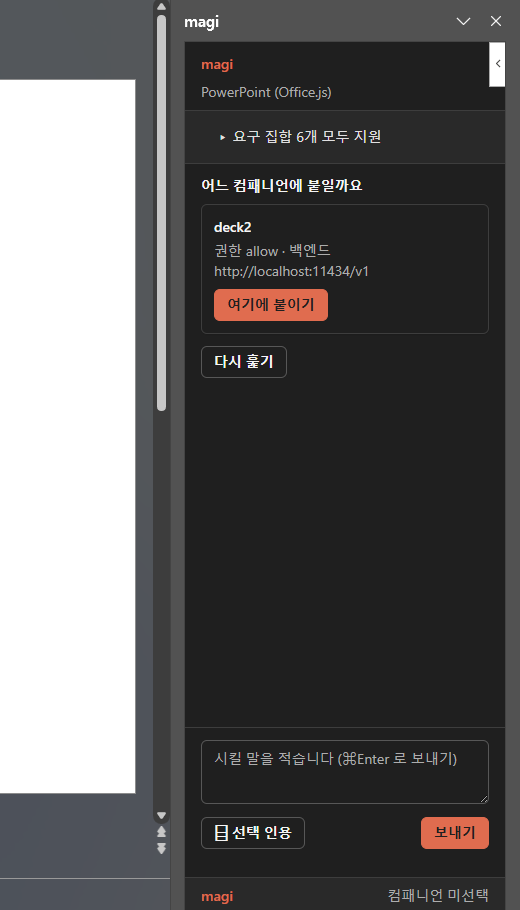
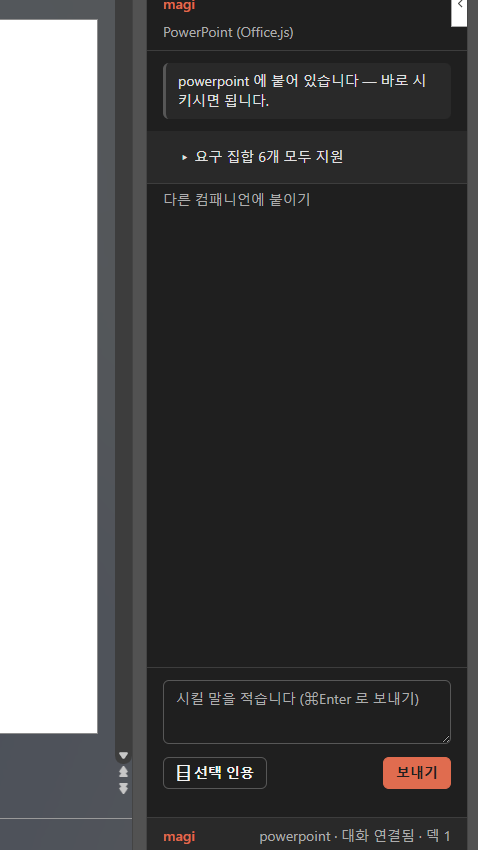
ppt: 문서 최신화 — 새 첫 화면 스크린샷과 §6.12, 그리고 6층 이야기
## 스크린샷

01-attach.png 를 다시 찍었다. 그 그림이 가리키던 화면이 이제 없다 — 고르는
화면을 거치지 않으므로, 작업창을 열면 이미 붙어 있다. 새 그림은 「powerpoint 에
붙어 있습니다 — 바로 시키시면 됩니다」, 접힌 요구 집합, 「다른 컴패니언에
붙이기」(고급), 입력줄, 브랜드 줄을 한 장에 담는다. §3 의 도식도 같이 고쳤다.

찍다가 하나 나왔다: **헬퍼가 미리 붙여 둔 첫 화면은 빈 판이었다.** 고르고 붙은
길은 「붙었습니다」를 적는데 물려받은 길만 아무 말도 안 했다. 아래 브랜드 줄에
증거가 있긴 하지만 처음 여는 사람이 거기부터 보지는 않는다. 한 줄 적게 했다.

## 매뉴얼

- §6.12 「이 장」이 어느 장인지 — 되묻던 화면과 왜 그랬는지, 그리고 두 도구가
  이제 무엇을 싣는지. 요점 한 줄: 모델에게는 산문보다 데이터가 세다.
- §6.11 에 포개짐 경고와 축 고르는 법.
- §6.1 표의 list_slides·read_slide 설명에 current 추가.

## TESTING

§5.1 에 이번 실측 넷을 더했다(스물여섯). 그리고 그 넷의 결이 앞의 것들과 다르다는
것을 적었다 — **그날 스윕은 41/41 이 통과했다.** 도구를 하나씩 불러서는 아무것도
안 걸렸고, 넷 다 사람 말을 그대로 보내고 무슨 일이 나는지 본 다음에야 나왔으며,
셋은 에이전트의 로그를 읽어야 원인이 보였다.

그 차이를 6층이라고 적었다: 층 5 는 「호스트가 그렇게 답하는가」를 재고, 그 위에
「모델이 그 답으로 옳은 일을 하는가」가 있다. 도구는 전부 참을 말하는데 모델이
엉뚱한 도구를 고르고, 엉뚱한 장을 만지고, 되물을 수 없는 것을 되묻는 자리다 —
그리고 그것이 사람이 겪는 제품이다.

Changed region(s): [[0.0, 0.0, 0.9958, 1.0], [0.7908, 0.0918, 0.8494, 0.1224]]

diff --git a/clients/powerpoint/addin/src/main.js b/clients/powerpoint/addin/src/main.js
@@ -191,6 +191,10 @@ async function boot() {
           pick.hide();
           offerRepick(true);
           view.setBound(true);
+          // **물려받았을 때도 한 줄 적는다.** 앞 판본은 여기서 아무 말도 안 했고, 헬퍼가 미리
+          // 붙여 둔 첫 화면은 **빈 판**이었다 — 아래 브랜드 줄에 증거가 있긴 하지만, 처음 여는
+          // 사람이 거기부터 보지는 않는다.
+          view.where(`${bound} 에 붙어 있습니다 — 바로 시키시면 됩니다.`);
           await refreshBrand();
         }
       } catch (e) {

diff --git a/clients/powerpoint/docs/TESTING.ko.md b/clients/powerpoint/docs/TESTING.ko.md
@@ -6,7 +6,7 @@
 > 것은 `go test` 한 줄이면 돌고, 하나는 진짜 데몬이 있어야 돌고, 두 층은 **PowerPoint 와 사람의
 > 손**이 있어야 돈다. 그 조건을 모르면 「초록이니까 됐다」가 「그 층은 애초에 안 돌았다」와 같아
 > 보인다 — 이 레인은 그 착각을 오래 안고 있었다. 헬퍼가 전부 초록인 채로 **PowerPoint 에 한 번도
-> 안 붙어 본 날들**이 있었고, 붙인 첫날 5층에서만 결함 열둘이 나왔고, 에이전트가 장을 만들 수 있게 된 이튿날 아홉이 더 나왔다(§5.1).
+> 안 붙어 본 날들**이 있었고, 붙인 첫날 5층에서만 결함 열둘이 나왔고, 이튿날 열넷이 더 나왔다(§5.1).
 
 **마지막 실측: 2026-09-02 (도구 27개)**
 
@@ -163,12 +163,12 @@
 **이 층은 자동화가 없다.** Office 애드인을 창 없이 세우는 길이 이 저장소에는 없고, 사람이
 리본을 눌러 확인한다. 그래서 **점검표로 관리한다.**
 
-### 5.1 실물에서 나온 것들 — 2026-09-01(열둘)과 2026-09-02(아홉)
+### 5.1 실물에서 나온 것들 — 2026-09-01(열둘)과 2026-09-02(열넷)
 
 2026-09-01 이 이 애드인이 **PowerPoint 에 처음 붙은 날**이다. 헬퍼 61개와 JS 500여 개가 전부
 초록인 상태에서 붙였고, 그날 열둘이 나왔다. 이튿날 에이전트가 **장을 만들 수 있게 되자** 둘이
 더 나왔다(표 아래 여섯) — 새 기능이 새 슬라이드를 만들자마자 그 슬라이드를 읽는 길이 막혀
-있던 것이 드러났고, 도구를 전수로 불러 보자 둘이 더 나왔다. 아래 스물둘은 전부 **자동 시험이 하나도 못 잡던 것**이고, 지금은 전부 물려 있다.
+있던 것이 드러났고, 도구를 전수로 불러 보자 둘이 더 나왔다. 아래 스물여섯은 전부 **자동 시험이 하나도 못 잡던 것**이고, 지금은 전부 물려 있다.
 
 | 실물에서 본 것 | 무엇이었나 | 지금 무는 자리 |
 |---|---|---|
@@ -195,10 +195,24 @@
 | 「간격 똑같이」가 도형을 **거꾸로 겹쳐 쌓았다** — 그러고도 「고르게 했습니다」 | 폭을 맨 뒤 **도형의** 뒷모서리로 쟀다. 넓은 배너가 가운데 있으면 폭이 짧게 잡혀 틈이 음수가 된다 | officehand: 「가운데를 왼쪽으로 밀어 겹치게 놓지 않는다」·「자리가 모자라면 겹쳐 놓지 않고 말한다」 |
 | 도형 쓰기를 통째로 빼도 **시험이 전부 초록**이었다 | 스텁의 `reveal` 이 `left` 를 값으로 복사만 해서, 손이 쓴 값이 view 에 붙었다 사라졌다 | 스텁이 픽스처로 써 내려간다 + officehand: 「픽스처의 자리가 실제로 바뀐다」 |
 | **데몬이 안 뜬다** — 165초, 다른 회차엔 659초. CPU 는 0.1초 | `-theme auto`(기본값)가 터미널에 배경색을 묻고 답을 stdin 으로 기다린다. 런처가 띄운 데몬에는 아무도 몰고 있지 않은 콘솔뿐이라, **소켓을 잡기도 전에** 앉아 있었다 | `cmd/magi/theme_test.go` 4개 — 데몬은 안 묻고, 대화형은 여전히 감지한다 |
+| **도구 28개가 붙었는데 말을 걸면 「아직 대화가 없습니다」** | 데몬은 소켓에 선 **다음에** 자기 기록을 쓴다. 그 틈에 명단을 읽으면 세션 칸이 비고, 그 순간의 답이 `Ready` 로 굳었다. 작업창은 「준비됐습니다」인데 사람은 아무 말도 못 걸고, 되돌릴 길은 헬퍼를 죽이는 것뿐 | `own_api_test.go` 2개 — 늦게 온 대화 이름을 잡는가, 굳은 뒤에도 다음 물음에 잡는가 |
+| **「이 장에 있는 상자들 줄 맞춰 줘」에 슬라이드 15개를 늘어놓고 되물었다** | 손은 `getSelectedSlides` 로 옳게 풀고 스키마에도 「되묻지 말 것」이 적혀 있었는데, **모델이 그 말을 안 믿었다.** 목차에 그 사실이 데이터로 없었다 | `officehand.mjs` 8개 — 목차·읽기가 `current` 를 싣는가, 고른 것이 없으면 안 싣는가 |
+| **모델이 `align_shapes` 대신 `move_shape` 를 도형마다 불렀다** | `move_shape` 의 설명이 「도형 하나를 옮긴다」로 끝나 있어, 여럿을 줄 세우는 길이 있다는 말이 어디에도 없었다. 모델이 읽는 것은 스키마뿐이다 | 스키마가 그 길을 가리킨다 + 실측 재확인 |
+| **맞췄더니 상자 셋이 포개졌다 — 그러고도 「맞췄습니다」** | 가로로 늘어선 것을 `left` 로 맞추면 퍼져 있던 축이 접혀 한 줄로 쌓인다. 시킨 대로 했고 문장도 참인데 화면은 나빠졌다 | `officehand.mjs` 6개 — 늘어난 겹침을 세어 적는가, 안 늘었으면 안 적는가 |
 
 **교훈 한 줄.** 이 레인에서 자동 시험이 못 보는 것은 **호스트와 화면**이고, 그 둘이 이 제품의
 얼굴이다. 층 1~4 는 「우리가 정한 것을 지키는가」를 재고, 「사람이 보는 것이 사실인가」는
 여전히 5층이 잰다.
+
+**마지막 넷은 도구를 불러서는 안 나왔다.** 그날 스윕은 41/41 이 통과했다 — 도구를 하나씩
+불러 보는 것으로는 아무것도 안 걸렸다. 넷 다 **사람이 하는 말을 그대로 보내고 무슨 일이
+일어나는지 본** 다음에야 나왔고, 셋은 **에이전트의 로그를 읽어야** 원인이 보였다.
+
+그 차이가 이 문서의 6층이다. 층 5 는 「호스트가 그렇게 답하는가」를 재고, 그 위에 「**모델이
+그 답으로 옳은 일을 하는가**」가 있다. 도구는 전부 참을 말하는데 모델이 엉뚱한 도구를 고르고,
+엉뚱한 장을 만지고, 되물을 수 없는 것을 되묻는 자리다 — 그리고 그것이 사람이 겪는 제품이다.
+
+그 층을 재는 방법은 지금 하나뿐이다: **말을 걸고, 덱을 COM 으로 읽고, 세션 로그를 읽는다.**
 
 **마지막 하나는 이 레인 바깥에서 왔다.** 데몬이 안 뜨는 문제는 PowerPoint 클라이언트의 코드가
 아니라 magi 코어의 기동 경로에 있었고, **클라이언트를 실물에 붙여 보지 않았으면 아무도 안 봤을
